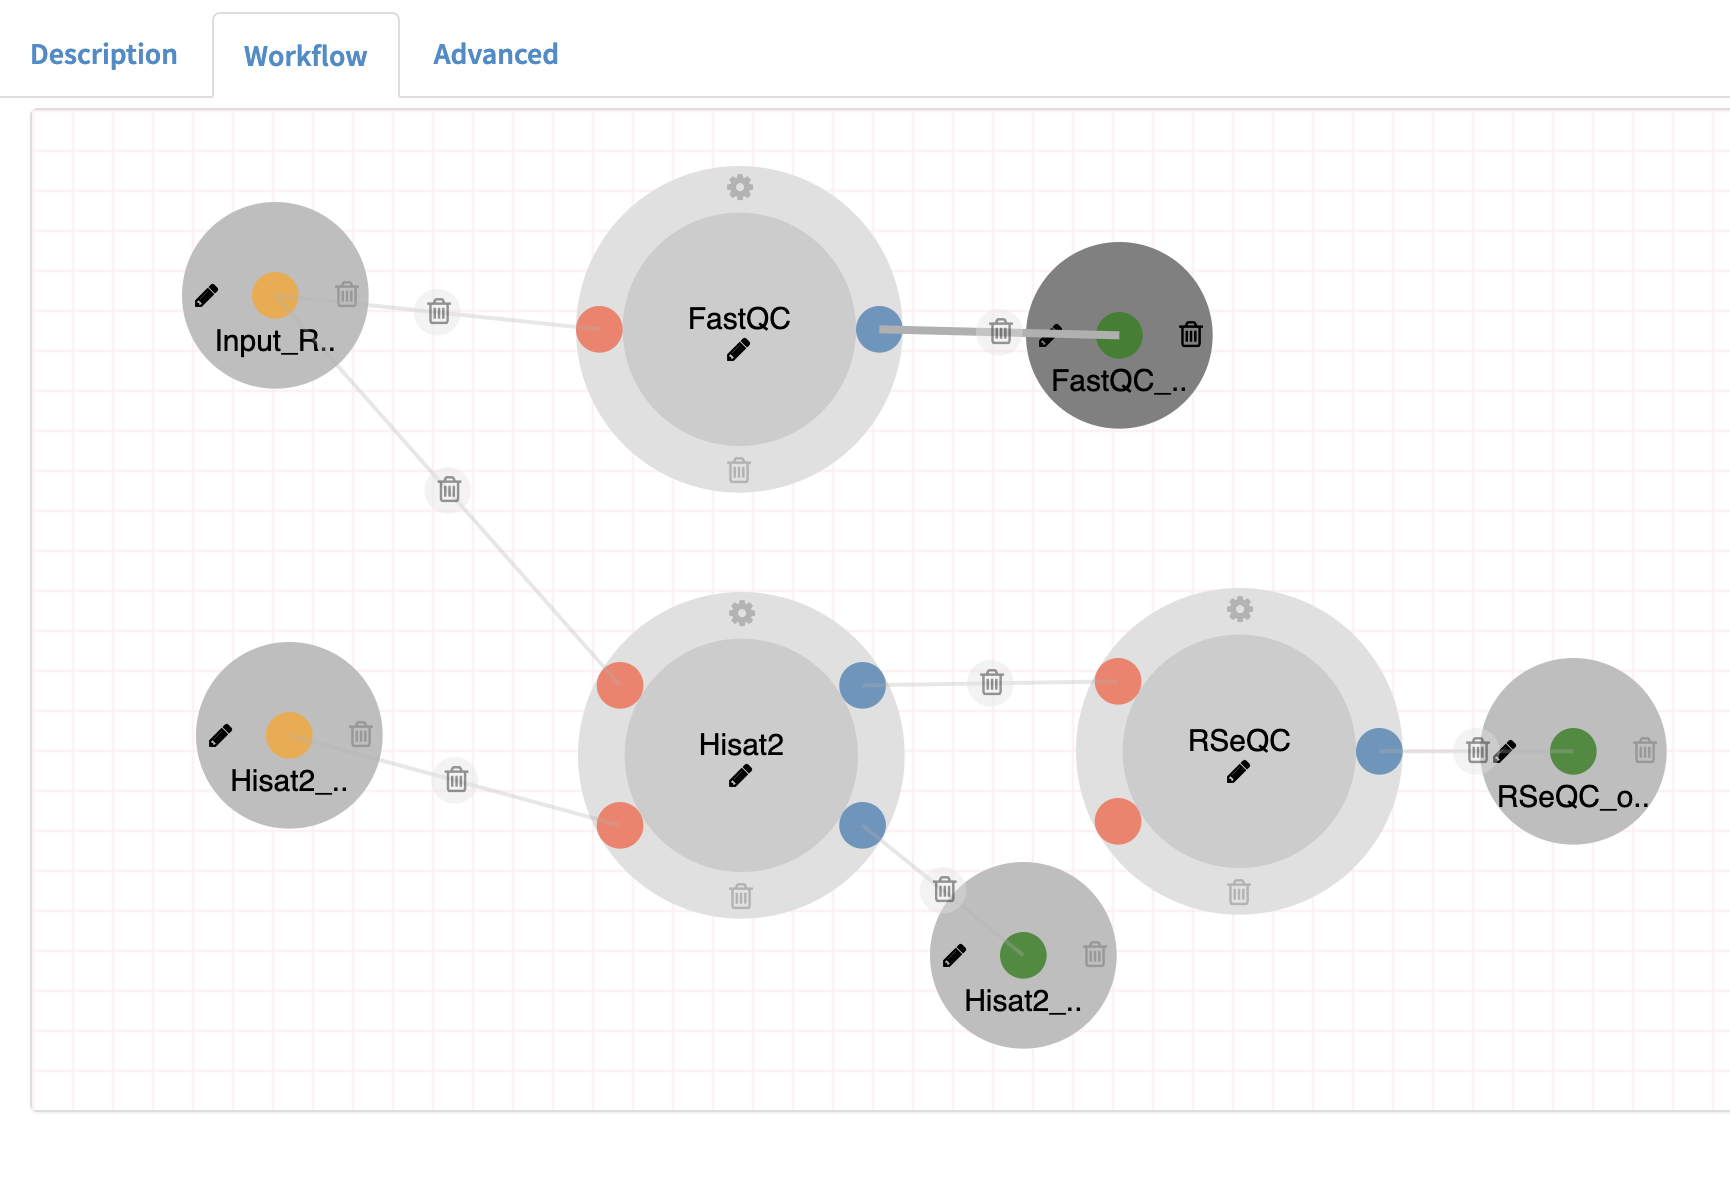
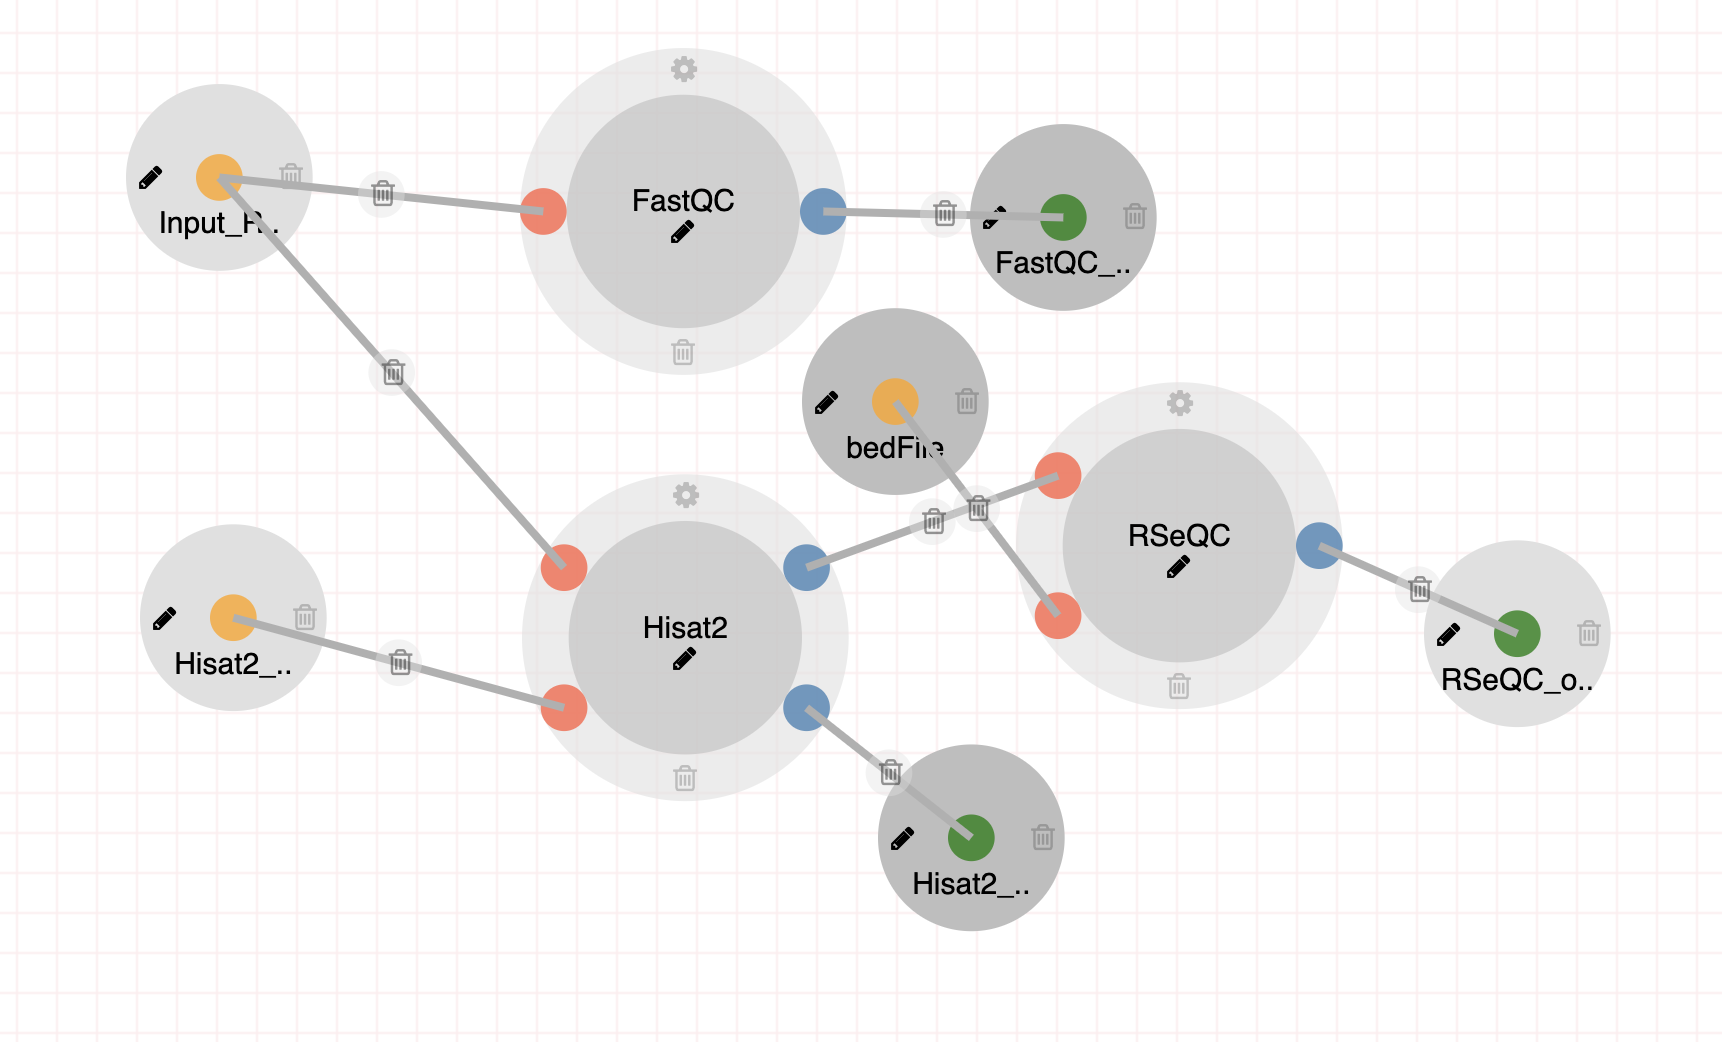
bedFile added

diff --git a/README.md b/README.md
@@ -229,9 +229,9 @@ b. Please drag and drop FastQC, Hisat2 and RSeQC to the workspace;
 
 <img src="dolphinnext_images/build15-drag-drop.png" width="50%">
 
-c. Please drag and drop two Input parameters and change their names to "Input_Reads" and "Hisat2_Index" and connect them to the processes;     
+c. Please drag and drop three Input parameters and change their names to "Input_Reads", "Hisat2_Index" and "bedFile" and connect them to their processes;     
 
-d. Connect your Hisat2 process with RSeQC process using mapped_reads.
+d. Connect your Hisat2 process with RSeQC process using mapped_reads parameter in both. You will see that, if the types match you can connect the two processes.
 
 e. Drag & Drop three output parameters and name them "FastQC_output", "Hisat2_Summary", and "RSeQC_output" and connect them to their corresponding processes. While naming, click their "Publish to Web Directory" and choose the right output format according to the output type of the process.
  
